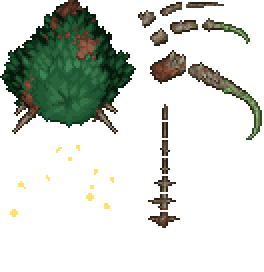
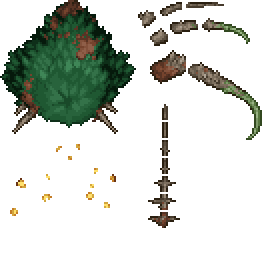
glowmask, proper variants, animation content

diff --git a/Content/Swamp/NPCs/SwampBoss/Mossmother.cs b/Content/Swamp/NPCs/SwampBoss/Mossmother.cs
@@ -35,7 +35,9 @@ internal partial class Mossmother : ModNPC
 	public const int TrailingIndex = 20;
 	public const int PosionAuraRadiusSize = 340;
 
-	private static Asset<Texture2D> Face = null;
+	private static Asset<Texture2D> Face = null!;
+
+	private float DelayedRotation => _oldRotations[5];
 
 	private ref float Timer => ref NPC.ai[1];
 	private ref float MiscNumber => ref NPC.ai[2];
@@ -52,7 +54,12 @@ internal partial class Mossmother : ModNPC
 	private ref float MiscTwo => ref NPC.localAI[2];
 	private ref float VisualVariant => ref NPC.localAI[3];
 
+	private readonly float[] _oldRotations = new float[6];
+
 	private Vector2[] movementSpline = new Vector2[30];
+
+	private float _animationSpeed = 0;
+	private float _animationSpeedTarget = 0;
 
 	public override void SetStaticDefaults()
 	{
@@ -139,7 +146,49 @@ internal partial class Mossmother : ModNPC
 
 	public override void FindFrame(int frameHeight)
 	{
+		_oldRotations[0] = NPC.rotation;
+
+		for (int i = _oldRotations.Length - 1; i >= 1; --i)
+		{
+			_oldRotations[i] = _oldRotations[i - 1];
+		}
+
 		NPC.frameCounter += 0.2f;
+
+		float target = 0;
+
+		if (NPC.IsABestiaryIconDummy)
+		{
+			_animationSpeed += 0.2f;
+			return;
+		}
+
+		if (State is BehaviorState.Desperation or BehaviorState.MoveToWall)
+		{
+			if (Collision.SolidCollision(NPC.position, NPC.width, NPC.height))
+			{
+				target += 0.2f;
+			}
+			else
+			{
+				target += 0.45f;
+			}
+		}
+		else if (State is BehaviorState.GasCrawl)
+		{
+			target += 0.25f;
+		}
+		else if (State is BehaviorState.IdleInWall or BehaviorState.Huddled)
+		{
+			target += 0.1f;
+		}
+		else
+		{
+			target += 0.2f;
+		}
+
+		_animationSpeedTarget = MathHelper.Lerp(_animationSpeedTarget, target, 0.02f);
+		_animationSpeed += _animationSpeedTarget;
 	}
 
 	public override bool PreDraw(SpriteBatch spriteBatch, Vector2 screenPos, Color drawColor)
@@ -147,9 +196,6 @@ internal partial class Mossmother : ModNPC
 		Texture2D tex = TextureAssets.Npc[Type].Value;
 		Rectangle frame = NPC.frame with { Width = 302 };
 		Vector2 basePosition = NPC.Center - screenPos;
-
-		NPC.rotation = NPC.AngleTo(Main.MouseWorld);
-		VisualVariant = Main.LocalPlayer.selectedItem % 3;
 
 		DrawTail(tex, basePosition, drawColor);
 
@@ -163,7 +209,7 @@ internal partial class Mossmother : ModNPC
 		DrawBackLimb(tex, basePosition, [new Vector2(-24, -56), new(-6, -4), new Vector2(-8, -2)], drawColor, true, true); // Flipped back limb
 
 		DrawIndividualSegment(new Rectangle(0, 0, 136, 134), drawColor);
-		DrawIndividualSegment(new Rectangle(0, 136, 136, 134), Color.White);
+		DrawIndividualSegment(new Rectangle(0, 136, 136, 134), Color.White * (MathF.Sin(_animationSpeed * 0.6f) * 0.25f + 0.75f));
 
 		var faceFrame = new Rectangle(82 * (int)(NPC.frameCounter % 8), (int)(84 * VisualVariant), 82, 84);
 		DrawIndividualSegment(faceFrame, drawColor, -new Vector2(0, 40), Face.Value);
@@ -181,15 +227,15 @@ internal partial class Mossmother : ModNPC
 		Rectangle src = wayBack ? new(138, 10, 18, 18) : new(150, 28, 18, 18);
 		Vector2 origin = wayBack ? new(6, 10) : new(6, 12);
 		SpriteEffects effects = flipped ? SpriteEffects.FlipHorizontally : SpriteEffects.None;
-		Vector2 offset = offsets[0].RotatedBy(NPC.rotation);
+		Vector2 offset = offsets[0].RotatedBy(DelayedRotation);
 
-		Main.spriteBatch.Draw(texture, basePosition + offset, src, drawColor, NPC.rotation, origin, 1f, effects, 0);
+		Main.spriteBatch.Draw(texture, basePosition + offset, src, drawColor, DelayedRotation, origin, 1f, effects, 0);
 
-		float sineRotation = (float)Math.Sin(NPC.frameCounter * 0.8f - (!flipped ? MathHelper.PiOver2 : 0) + (wayBack ? 2.3f : 3)) * 0.15f;
-		float rotation = NPC.rotation + sineRotation;
+		float sineRotation = (float)Math.Sin(_animationSpeed * 0.8f - (!flipped ? MathHelper.PiOver2 : 0) + (wayBack ? 2.3f : 3)) * 0.15f;
+		float rotation = DelayedRotation + sineRotation;
 
 		basePosition += offset;
-		offset = offsets[1].RotatedBy(NPC.rotation);
+		offset = offsets[1].RotatedBy(DelayedRotation);
 		src = wayBack ? new(160, 2, 22, 14) : new(170, 20, 28, 14);
 		origin = wayBack ? new(4, 12) : new(6, 8);
 
@@ -200,10 +246,10 @@ internal partial class Mossmother : ModNPC
 
 		Main.spriteBatch.Draw(texture, basePosition + offset, src, drawColor, rotation, origin, 1f, effects, 0);
 
-		rotation = NPC.rotation + sineRotation * 1.5f;
+		rotation = DelayedRotation + sineRotation * 1.5f;
 		basePosition += offset.RotatedBy(sineRotation * 1.6f);
 		src = wayBack ? new(186, 2, 38, 6) : new(202, 18, 48, 26);
-		offset = offsets[2].RotatedBy(NPC.rotation);
+		offset = offsets[2].RotatedBy(DelayedRotation);
 
 		if (flipped)
 		{
@@ -216,16 +262,16 @@ internal partial class Mossmother : ModNPC
 	private void DrawForelimb(Texture2D texture, Vector2 basePosition, Vector2 offset, Vector2 hinge, Color drawColor, bool flipped)
 	{
 		Rectangle baseFrame = new(150, 50, 36, 34);
-		Vector2 origin = new Vector2(8, 24);
+		Vector2 origin = new(8, 24);
 		SpriteEffects effects = flipped ? SpriteEffects.FlipHorizontally : SpriteEffects.None;
 
-		offset = offset.RotatedBy(NPC.rotation);
+		offset = offset.RotatedBy(DelayedRotation);
 
-		Main.spriteBatch.Draw(texture, basePosition + offset, baseFrame, drawColor, NPC.rotation, origin, 1f, effects, 0);
+		Main.spriteBatch.Draw(texture, basePosition + offset, baseFrame, drawColor, DelayedRotation, origin, 1f, effects, 0);
 
-		float rotation = NPC.rotation + (float)Math.Sin(NPC.frameCounter * 0.55f - (!flipped ? MathHelper.PiOver2 : 0)) * 0.35f;
+		float rotation = DelayedRotation + (float)Math.Sin(_animationSpeed * 0.55f - (!flipped ? MathHelper.PiOver2 : 0)) * 0.35f;
 
-		offset += hinge.RotatedBy(NPC.rotation);
+		offset += hinge.RotatedBy(DelayedRotation);
 		origin = new Vector2(8);
 		baseFrame = new Rectangle(188, 62, 74, 78);
 
@@ -240,8 +286,8 @@ internal partial class Mossmother : ModNPC
 	private void DrawTail(Texture2D texture, Vector2 basePosition, Color drawColor)
 	{
 		float animSpeed = MathHelper.Lerp(0.14f, 0.25f, NPC.life / (float)NPC.lifeMax);
-		float offset = (float)Math.Sin(NPC.frameCounter * 0.14f) * 0.1f;
-		float offsetOpp = (float)Math.Sin(NPC.frameCounter * 0.14f + MathHelper.Pi) * 0.1f;
+		float offset = (float)Math.Sin(_animationSpeed * 0.14f) * 0.1f;
+		float offsetOpp = (float)Math.Sin(_animationSpeed * 0.14f + MathHelper.Pi) * 0.1f;
 
 		Rectangle baseFrame = new(148, 104, 32, 16);
 		Vector2[] bezierPoints = [new Vector2(0, 54), new Vector2(0, 84).RotatedBy(offset), new Vector2(0, 134), new Vector2(0, 174).RotatedBy(offsetOpp)];
@@ -250,7 +296,7 @@ internal partial class Mossmother : ModNPC
 
 		for (int i = 0; i < equidistantPoints.Length; ++i)
 		{
-			Vector2 position = equidistantPoints[i].RotatedBy(NPC.rotation - MathHelper.Pi) + basePosition;
+			Vector2 position = equidistantPoints[i].RotatedBy(DelayedRotation - MathHelper.Pi) + basePosition + new Vector2(-6, 2).RotatedBy(DelayedRotation - MathHelper.Pi);
 			float rotation = priorPosition.AngleTo(position) + MathHelper.PiOver2;
 			Rectangle frame = baseFrame with { Y = 104 + (7 - i) * 18 };
 			

diff --git a/Content/Swamp/NPCs/SwampBoss/Mossmother.AI.cs b/Content/Swamp/NPCs/SwampBoss/Mossmother.AI.cs
@@ -285,7 +285,7 @@ internal partial class Mossmother
 
 	private void SpawnVenomDust()
 	{
-		Vector2 angle = (Main.rand.NextBool() ? new Vector2(42, 110) : new Vector2(-58, 110)).RotatedBy(NPC.rotation);
+		Vector2 angle = (Main.rand.NextBool() ? new Vector2(42, 60) : new Vector2(-48, 60)).RotatedBy(NPC.rotation);
 		byte opacity = (byte)(byte.MaxValue * PoisonShaderFunctionality.Intensity);
 		Vector2 velocity = angle.SafeNormalize(Vector2.Zero).RotatedByRandom(0.4f) * Main.rand.NextFloat(5, 12);
 		int type = Main.rand.NextBool(3) ? ModContent.DustType<BrightVenomDust>() : DustID.Venom;

diff --git a/Content/Swamp/SwampArea.cs b/Content/Swamp/SwampArea.cs
@@ -803,7 +803,8 @@ internal class SwampArea : MappingWorld, IExplorationWorld
 
 			for (int i = 0; i < 3; ++i)
 			{
-				NPC.NewNPC(new EntitySource_WorldGen(), ArenaMiddleX * 16, y * 16, ModContent.NPCType<Mossmother>(), 0, 0, 1);
+				int npc = NPC.NewNPC(new EntitySource_WorldGen(), ArenaMiddleX * 16, y * 16, ModContent.NPCType<Mossmother>(), 0, 0, 1);
+				Main.npc[npc].localAI[3] = i;
 			}
 		}
 
